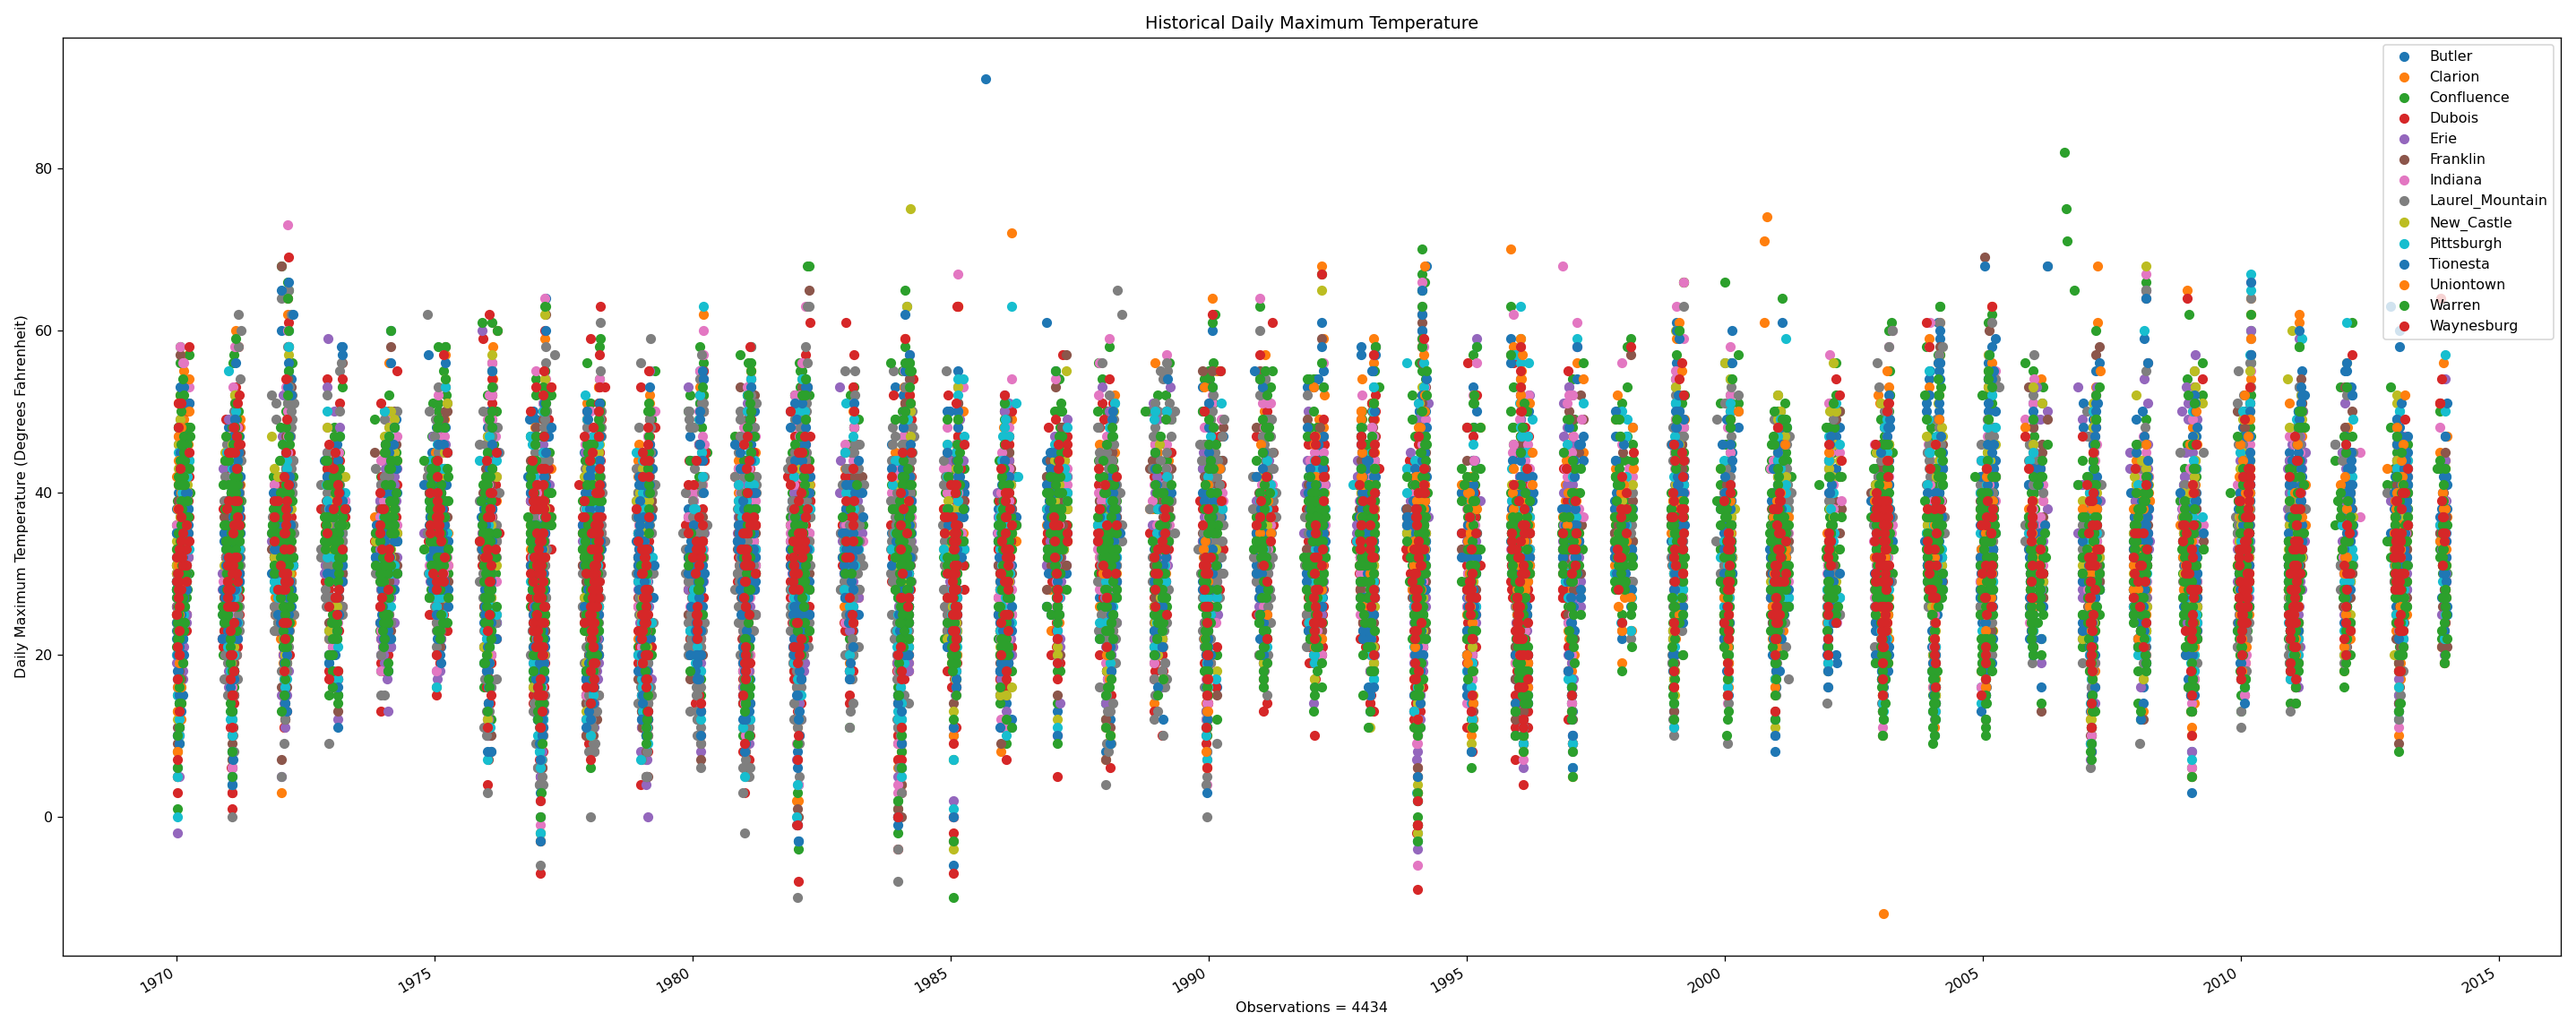
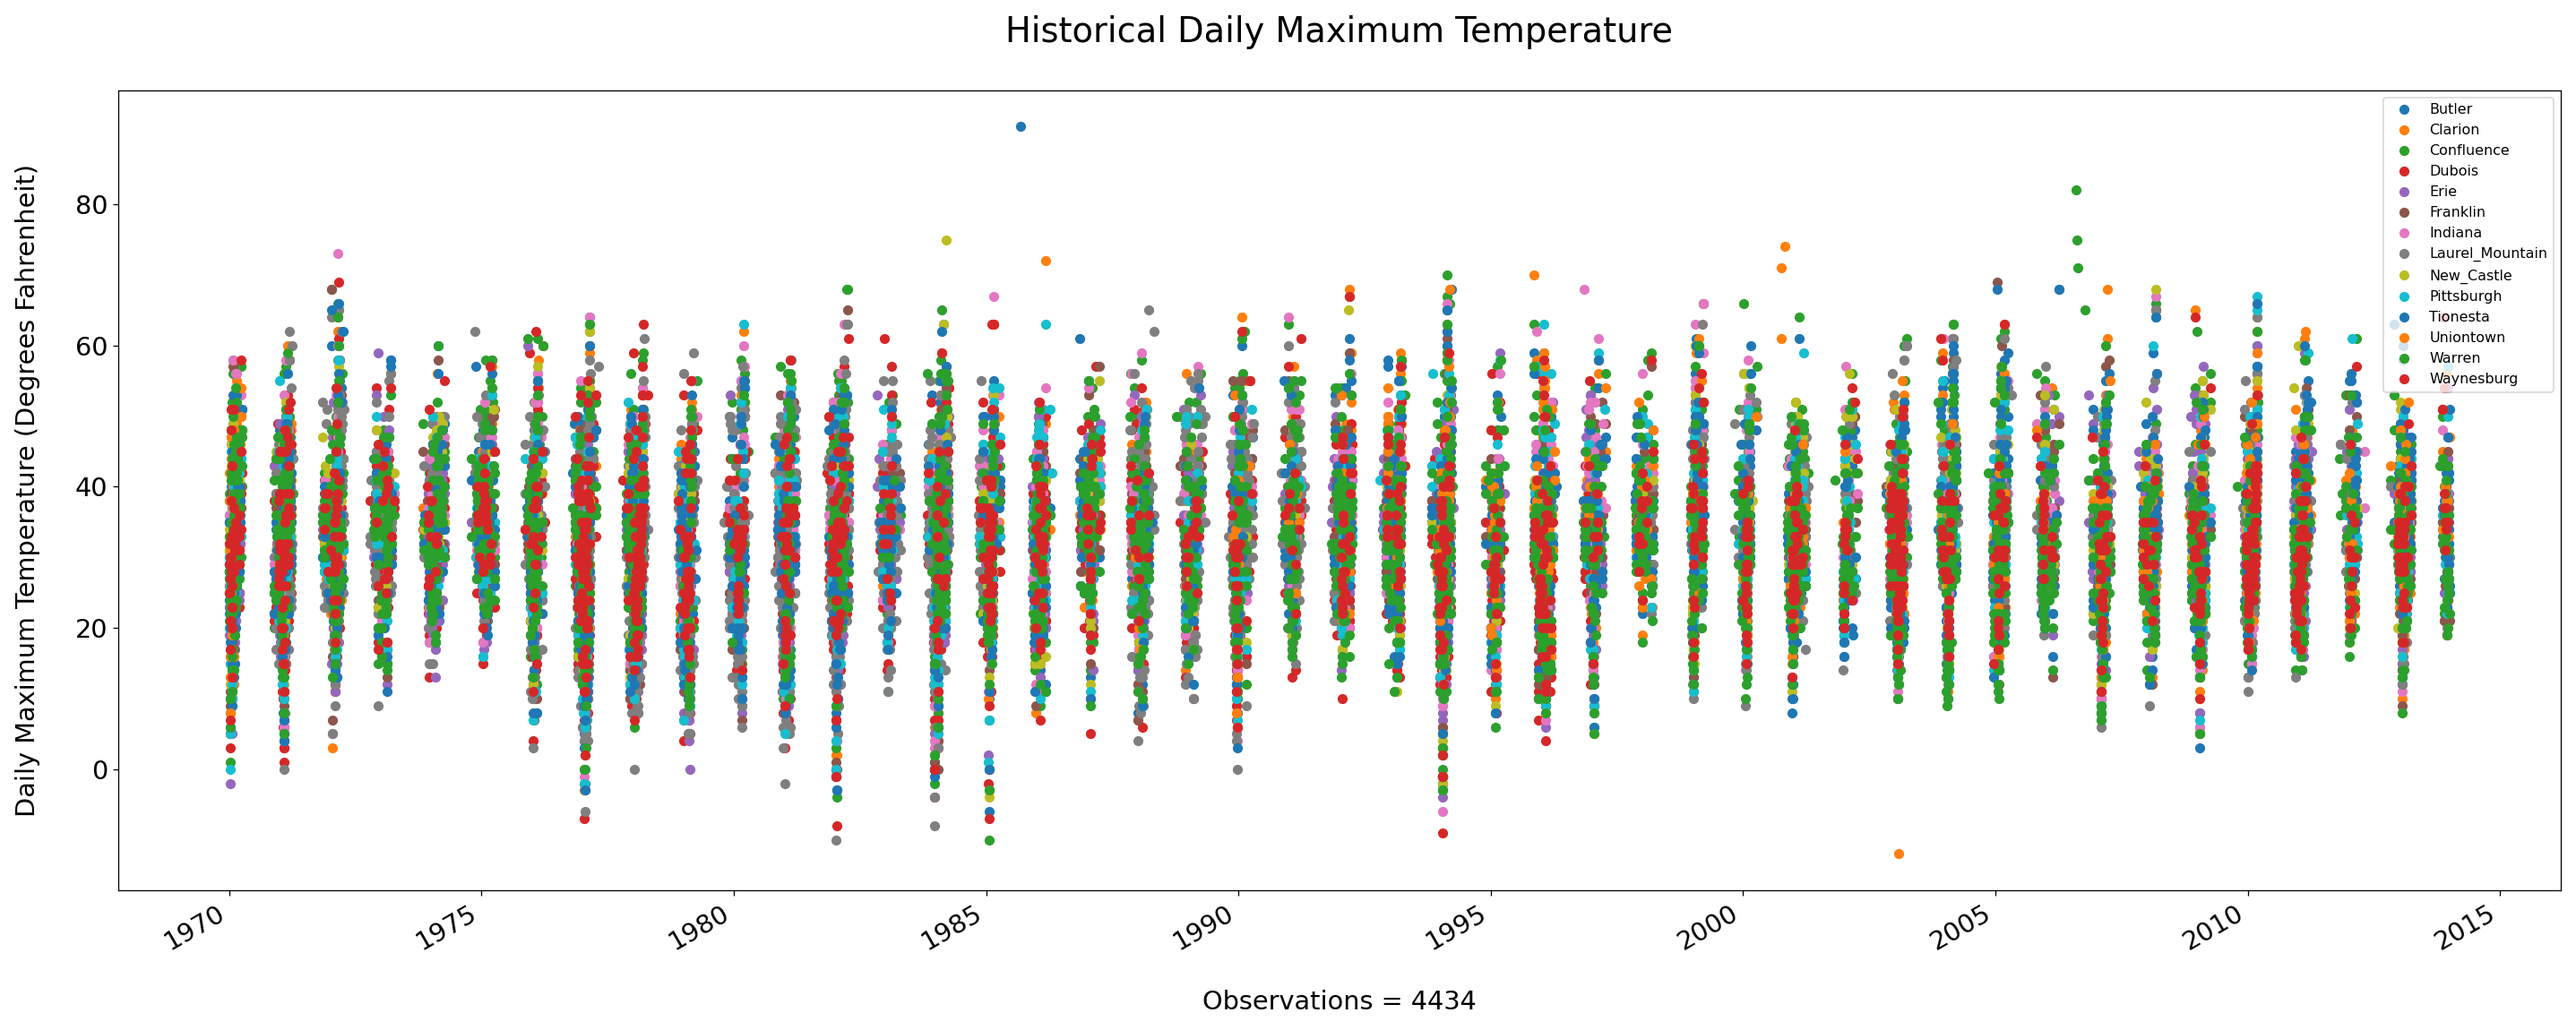
Tweaked plotter title, x and y labels

diff --git a/FInal_Project/Versions/Final_Project_v3.6.py b/FInal_Project/Versions/Final_Project_v3.6.py
@@ -24,7 +24,7 @@ rcParams.update({'figure.autolayout': True})
 
 #The very simplest function, which probably doesn't need to exist, as just sys.exit() would get the job done.
 def func_quit():
-    print('Thanks for using the Western PA Winter Weather Plotter - Have a nice day!')
+    print('\nThanks for using the Western PA Winter Weather Plotter - Have a nice day!')
     sys.exit()
 #This function does what you'd think:  it builds the dataframes that will be used to conduct most of the subsequent calculation and visualization.
 def build_dfs():
@@ -555,13 +555,19 @@ def comparison_plotter():
     
     #And create this variable, a tally of the total number of observations graphed, to be displayed on the x-axis.  Since days with snowdepth = 0 were excluded from the dataset from the start, this number is in itself fairly informative.
     ob_count = str(len(all_stations_df.index))
+
+    #So we finally get to plot our dataframe; the figure size is quite large, since we're dealing with a scatter plot with thousands of observations over nearly fifty years.
+    all_stations_plot = all_stations_df.plot(style='.', ms=12, figsize = (25, 10), fontsize=18)
+    
+    #Set title, fontsize;
+    plt.title('Historical '+fixed_var_sels[var_sel]+'\n', fontsize=24)
+    #Set xlabel and ylabel, fontsizes.
+    plt.xlabel('\nObservations = '+ob_count, fontsize=18)
+    plt.ylabel(fixed_var_sels[var_sel]+unit+'\n', fontsize=18)
     
     #And fix these once again for filepath-ing
     start = start.replace('/', '.')
     end = end.replace('/', '.')
-
-    #So we finally get to plot our dataframe; the figure size is quite large, since we're dealing with a scatter plot with thousands of observations over nearly fifty years.
-    all_stations_plot = all_stations_df.plot(title='Historical '+fixed_var_sels[var_sel], xlabel='Observations = '+ob_count, ylabel=fixed_var_sels[var_sel]+unit, style='.', ms=12, figsize = (25, 10))
     
     #We don't want to display this huge plot, so we handle things this way instead, as above, and save the plot to the appropriate directory.
     fig = all_stations_plot.get_figure()
